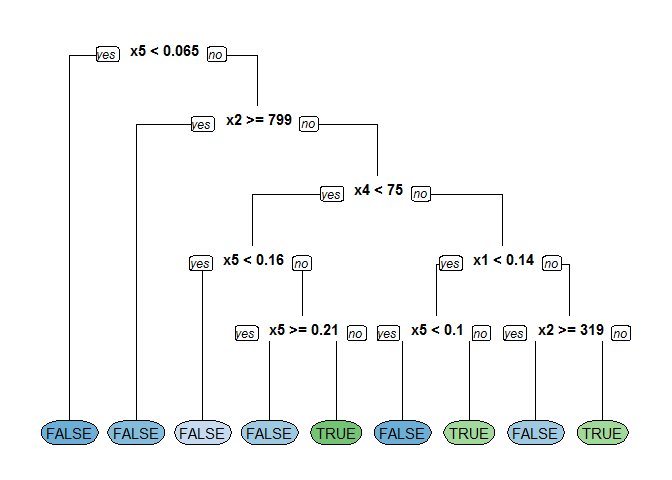
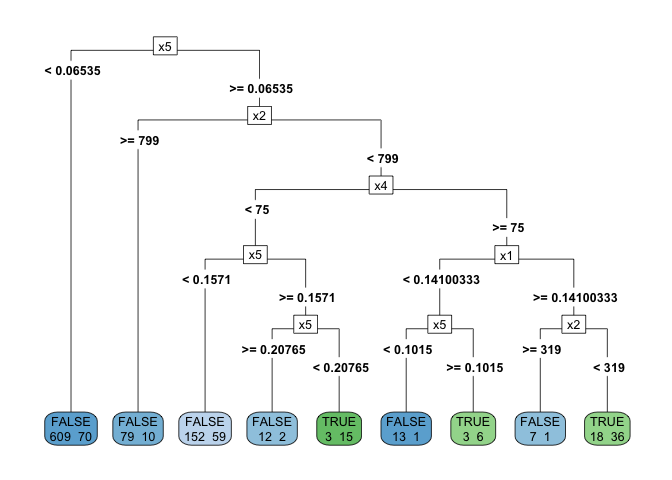
correct nodes

Changed region(s): [[0.0625, 0.0625, 0.9375, 0.9375]]

diff --git a/jinxiaosong/acc_is_na/README.md b/jinxiaosong/acc_is_na/README.md
@@ -10,11 +10,11 @@ read_utf8('说明.txt') %>%
     head
 ```
 
-    ## [1] "<U+FEFF>song_help：需要构建决策树的数据"                                                                                    
-    ## [2] "x1:x5：    自变量"                                                                                                          
-    ## [3] "y：        因变量"                                                                                                          
-    ## [4] ""                                                                                                                           
-    ## [5] "目的：构建一颗好的决策树（尽量通多更多的人且逾期率在3%以下）"                                                               
+    ## [1] "song_help：需要构建决策树的数据"                                                                                                  
+    ## [2] "x1:x5：    自变量"                                                                                                                
+    ## [3] "y：        因变量"                                                                                                                
+    ## [4] ""                                                                                                                                 
+    ## [5] "目的：构建一颗好的决策树（尽量通多更多的人且逾期率在3%以下）"                                                                     
     ## [6] "注：x2中的“0”是缺失值，x5中的“9”是特殊的一个值（即命中x5==“9”的这几个样本没有调用x5变量，并不是缺失，而是没调用x5这个特征）"
 
 我参考我之前做决策树的
@@ -85,10 +85,23 @@ mod <- rpart(formula = y ~ .
 ``` r
 # Display the results
 library(rpart.plot)
-rpart.plot(x = mod, yesno = 2, type = 0, extra = 0)
+rpart.plot(x = mod, yesno = 2, type = 5, extra = 1,digits = 10)
 ```
 
 ![](README_files/figure-gfm/unnamed-chunk-5-1.png)<!-- -->
+
+`digits`参考加上，否则图示会做近似处理，参考 [Stack
+Overflow](https://stackoverflow.com/questions/31571248/rpart-rounding-values?answertab=active)
+
+``` r
+data %>% 
+    summarise(
+        node_1 = sum(x5 < 0.06535)
+    )
+```
+
+    ##   node_1
+    ## 1    679
 
 ``` r
 data_addpred <- 
@@ -149,6 +162,6 @@ data_addpred %>%
     ## 6 (0.645,0.675] 0.667  0.667 
     ## 7 (0.825,0.855] 0.833  0.833
 
-![](README_files/figure-gfm/unnamed-chunk-8-1.png)<!-- -->
+![](README_files/figure-gfm/unnamed-chunk-9-1.png)<!-- -->
 
 晓松，这个数据看来不支持0.03这么低的bin，你看最低都是0.045。
